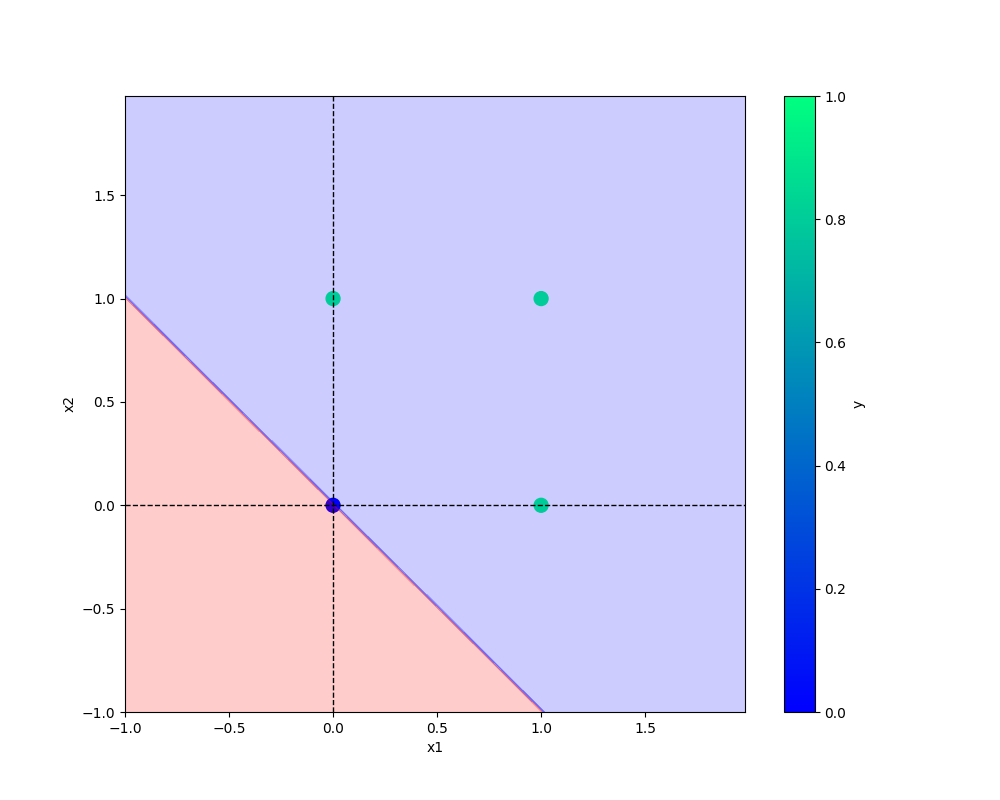
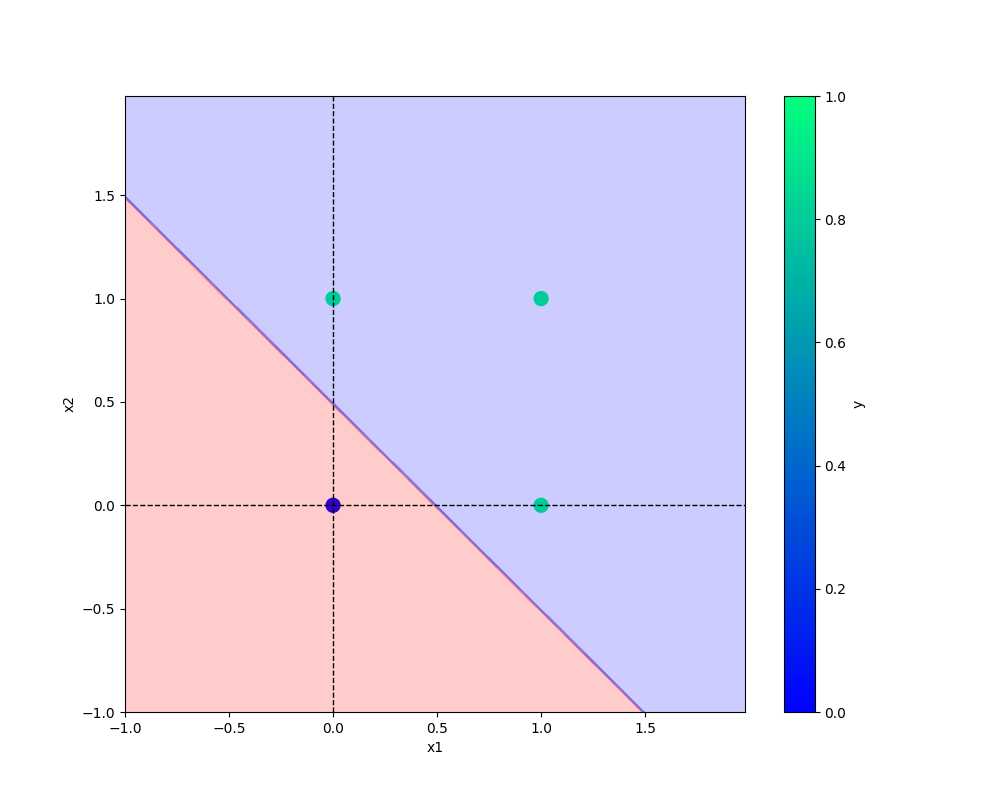
logs

Changed region(s): [[0.124, 0.25, 0.651, 0.9062]]

diff --git a/utils/all_utils.py b/utils/all_utils.py
@@ -1,9 +1,16 @@
+"""
+Author = Hasnain
+Contact = hasnainmehmood3435@gmail.com
+
+"""
+
 import matplotlib.pyplot as plt
 import numpy as np
 import pandas as pd
 import joblib 
 from matplotlib.colors import ListedColormap
 import  os 
+import logging
 
 def prepare_data(df):
   """It is used to seperate dependent(X) and independent(y) variables
@@ -14,6 +21,7 @@ def prepare_data(df):
   Returns:
       tuple : It returns the tuples of dependent(X) and independent(y)
   """
+  logging.info("Preparing data by dividing it into dependent(X) and independent(y)")
   X = df.drop("y", axis =1)
   y = df['y']
   return X ,y 
@@ -25,9 +33,11 @@ def save_model(model, filename):
       model (python object): trained machine learning model
       filename (str): path to save the trained model
   """
+  logging.info("Saving the trained model")
   os.makedirs("models", exist_ok = True) #Only create if model_dir doesn't exist
   file_path = os.path.join("models", filename)
   joblib.dump(model, file_path)
+  logging.info(f"Saved the trained model at {file_path}")
 
 def save_plot(df, file_name, model):
   """This method is used to generate and save the plot of input dataset with their seperation body generated with the model
@@ -38,6 +48,7 @@ def save_plot(df, file_name, model):
       model (python object): Trained model to make the decision
   """
   def _create_base_plot(df):
+    logging.info("Creating the base plot")
     df.plot(kind="scatter", x="x1", y="x2", c="y", s=100, cmap="winter")
     plt.axhline(y=0, color="black", linestyle="--", linewidth=1)
     plt.axvline(x=0, color="black", linestyle="--", linewidth=1)
@@ -45,6 +56,7 @@ def save_plot(df, file_name, model):
     figure.set_size_inches(10, 8)
 
   def _plot_decision_regions(X, y, classfier, resolution=0.02):
+    logging.info("Plotting decision regions")
     colors = ("red", "blue", "lightgreen", "gray", "cyan")
     cmap = ListedColormap(colors[: len(np.unique(y))])
 
@@ -75,3 +87,4 @@ def save_plot(df, file_name, model):
   os.makedirs(plot_dir, exist_ok=True) # ONLY CREATE IF MODEL_DIR DOESN"T EXISTS
   plotPath = os.path.join(plot_dir, file_name) # model/filename
   plt.savefig(plotPath)
+  logging.info(f"Saved the plot at {plotPath}")

diff --git a/utils/model.py b/utils/model.py
@@ -1,9 +1,11 @@
 import numpy as np 
+import logging
+from tqdm import tqdm
 
 class Perceptron:
     def __init__(self, eta, epochs):
         self.weights = np.random.randn(3) * 1e-4
-        print(f"Initial Weights before training \n{self.weights}") #small weight init
+        logging.info(f"Initial Weights before training \n{self.weights}") #small weight init
         self.eta = eta #learning rate
         self.epochs = epochs
     def activation_fuction(self, inputs, weights): #step function
@@ -13,23 +15,23 @@ class Perceptron:
         self.X = X
         self.y = y 
         X_with_bias = np.c_[self.X, -np.ones((len(self.X), 1))] #concate bias with x
-        print(f"X with bias: \n{X_with_bias}")
-        for epoch in range(self.epochs):
-            print("--"*10)
-            print(f"For epoch {epoch}")
-            print("--"*10)
+        logging.info(f"X with bias: \n{X_with_bias}")
+        for epoch in tqdm(range(self.epochs), total = self.epochs, desc = "Training The Model"):
+            logging.info("--"*10)
+            logging.info(f"For epoch {epoch}")
+            logging.info("--"*10)
             
             y_hat = self.activation_fuction(X_with_bias, self.weights) #Forward Propagation
-            print(f"Predicted Value after forward pass: \n{y_hat}")
+            logging.info(f"Predicted Value after forward pass: \n{y_hat}")
             self.error = self.y - y_hat
-            print(f"Error: \n{self.error}")
+            logging.info(f"Error: \n{self.error}")
             self.weights = self.weights + self.eta * (np.dot(X_with_bias.T, self.error)) #Backward Propagation
-            print(f"Updated weights after epoch : \n{epoch} / {self.epochs} : \n{self.weights}")
-            print("#"*100)
+            logging.info(f"Updated weights after epoch : \n{epoch} / {self.epochs} : \n{self.weights}")
+            logging.info("#"*100)
     def predict(self, X):
         X_with_bias  = np.c_[X, -np.ones((len(X), 1))]
         return self.activation_fuction(X_with_bias, self.weights)
     def total_loss(self):
         total_loss = np.sum(self.error)
-        print(f"total loss : {total_loss}")
+        logging.info(f"total loss : {total_loss}")
         return total_loss

diff --git a/or.py b/or.py
@@ -1,10 +1,16 @@
 from utils.model import Perceptron
 from utils.all_utils import prepare_data, save_model, save_plot
 import pandas as pd
+import logging, os
 
+logging_str = "[%(asctime)s: %(levelname)s: %(module)s] %(message)s"
+log_dir = "logs"
+os.makedirs(log_dir, exist_ok=True)
+
+logging.basicConfig(filename = os.path.join(log_dir,"running_logs.log"), level= logging.INFO, format=logging_str, filemode="a")
 def main(data, eta, epochs, filename, plot_filename):
     df = pd.DataFrame(data)
-
+    logging.info(f"This is the actual dataframe{df}")
     X , y = prepare_data(df)
     model = Perceptron(eta=eta, epochs= epochs)
     model.fit(X, y)
@@ -19,5 +25,11 @@ if __name__ == '__main__':
         'y' : [0, 1,1,1]
     }
     ETA = 0.3
-    EPOCHS = 10
-    main(OR, ETA, EPOCHS, "or.model", "or.png")
+    EPOCHS = 100
+    try:
+        logging.info(">>>>>>>>> Starting Training >>>>>>>>>>>")
+        main(OR, ETA, EPOCHS, "or.model", "or.png")
+        logging.info(">>>>>>>>> Training Ended with Success >>>>>>>>>>>\n")
+    except Exception as e:
+        logging.exception(e)
+        raise e
